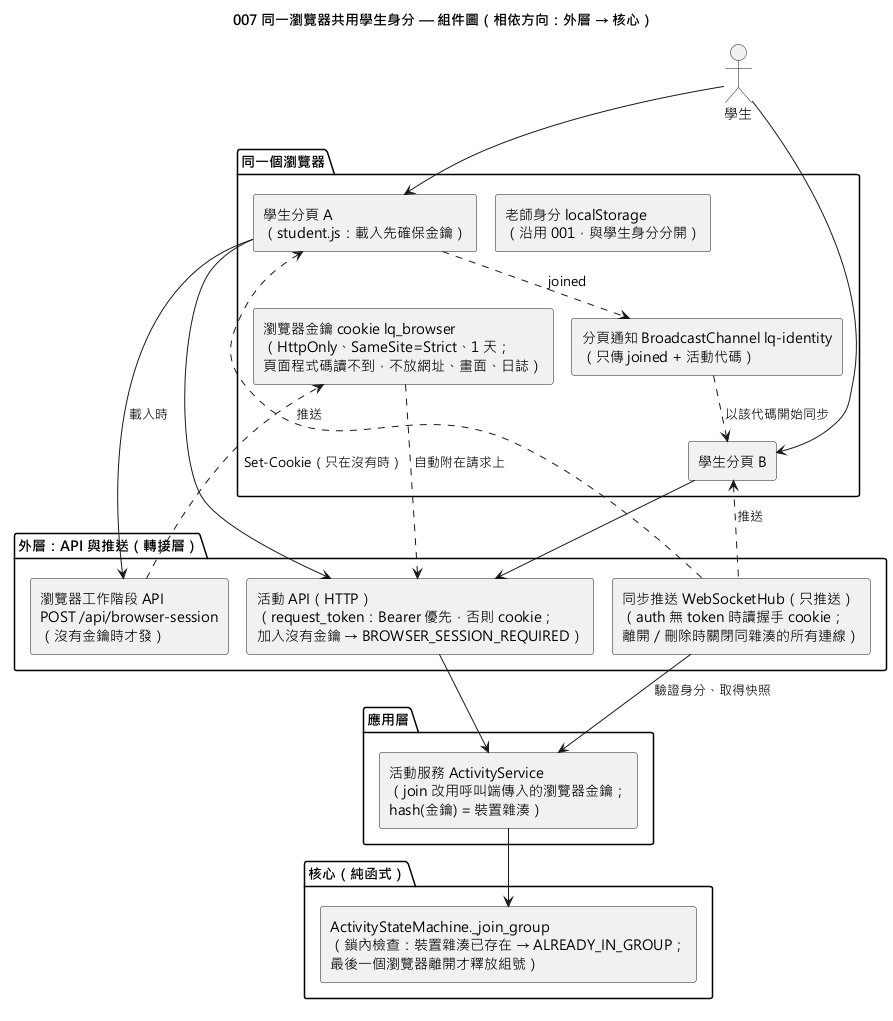
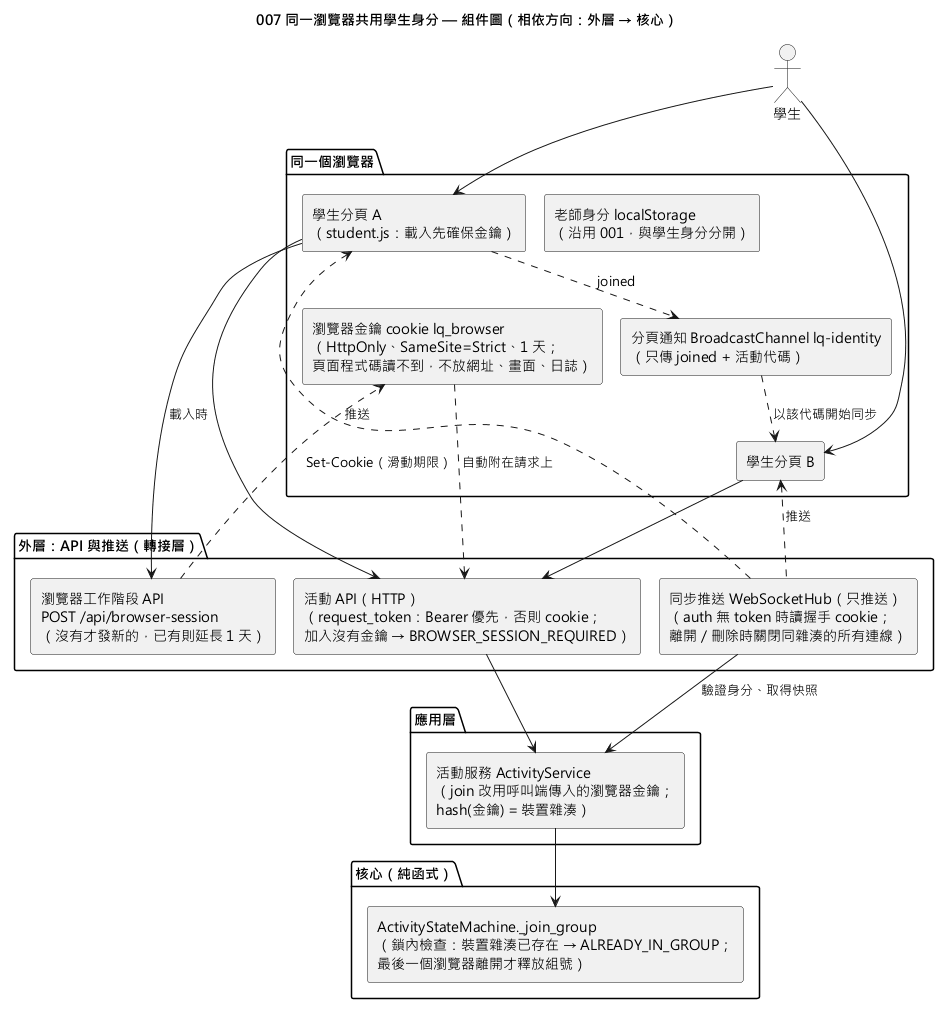
fix: 依獨立審查修正 007：cookie 滑動期限、加入拒絕不合格 Bearer 與老師 token、分頁通知判斷 (#36)
- browser-session 一律重新設定同一把金鑰的 1 天期限（P-08）
- 加入端點的 Bearer 須通過格式檢查；老師 token 回 403 TEACHER_CANNOT_JOIN（P-09）
- student.js 收到 joined 時以是否已同步成功判斷（P-10）
- 補測試：滑動期限、Bearer 格式、老師 token、WebSocket 完全無 cookie；補做 INV-1 第二次負對照
- 文件：契約 §1／§3／§6／§7、spec FR-004、research、data-model、001 契約表、圖表同步
- 驗證：ruff、format、mypy 全過；pytest 1431 passed、0 failed

diff --git a/src/lecture_quiz/adapters/static/js/student.js b/src/lecture_quiz/adapters/static/js/student.js
@@ -154,7 +154,9 @@ function followOtherTab(event) {
   if (!message || message.type !== "joined" || typeof message.code !== "string") return;
   const code = normalizeCode(message.code);
   if (code.length !== 6) return;
-  if (state.sync !== null) return; // 已經連著某個活動的分頁不受影響
+  // 已經同步成功（正在看某個活動）的分頁不受影響；還在連線、尚未收到快照的分頁
+  // 則改用通知的代碼重新同步，避免錯過通知（verification P-10）
+  if (state.synced) return;
   showError($("student-error"), null);
   history.replaceState(null, "", `?code=${encodeURIComponent(code)}`);
   startSync(code);

diff --git a/tests/contract/test_http_join.py b/tests/contract/test_http_join.py
@@ -55,6 +55,38 @@ def test_join_without_browser_key_is_rejected_without_change(client):
     assert snapshot["groups"] == []
 
 
+def test_malformed_bearer_is_not_a_browser_key(client):
+    """FR-008：Bearer 格式不符時不當成瀏覽器金鑰（審查第 3 點）。"""
+    teacher = create_joinable(client)
+    client.cookies.clear()
+    response = client.post(
+        f"/api/activities/{teacher.code}/groups/join",
+        json={"groupNumber": 2},
+        headers={"Authorization": "Bearer x"},
+    )
+    assert response.status_code == 400
+    assert response.json()["error"]["code"] == "BROWSER_SESSION_REQUIRED"
+
+
+def test_teacher_token_cannot_join(client):
+    """老師 token 不能當瀏覽器金鑰加入組別，否則會留下無法離開的裝置（審查第 3 點）。"""
+    teacher = create_joinable(client)
+    response = client.post(
+        f"/api/activities/{teacher.code}/groups/join",
+        json={"groupNumber": 2},
+        headers=teacher.headers,
+    )
+    assert response.status_code == 403
+    assert response.json()["error"] == {
+        "code": "TEACHER_CANNOT_JOIN",
+        "message": "老師身分不能加入組別，請用另一個瀏覽器開學生頁。",
+    }
+    snapshot = client.get(
+        f"/api/activities/{teacher.code}/snapshot", headers=teacher.headers
+    ).json()
+    assert snapshot["groups"] == []
+
+
 def test_code_is_case_and_space_insensitive(client):
     teacher = create_joinable(client)
     response = _join(client, f" {teacher.code.lower()} ", {"groupNumber": "1"})

diff --git a/src/lecture_quiz/adapters/web/browser_session.py b/src/lecture_quiz/adapters/web/browser_session.py
@@ -28,20 +28,22 @@ def create_router() -> APIRouter:
 
     @router.post("/browser-session", status_code=204)
     async def ensure_browser_session(request: Request) -> Response:
-        """已有合法金鑰時不動 cookie；否則發一把新的（本文一律為空）。"""
+        """已有合法金鑰時沿用並延長期限；否則發一把新的（本文一律為空）。
+
+        每次開啟學生頁都重新設定 1 天期限（滑動期限，verification P-08），避免
+        「第一次開頁滿 1 天」剛好落在上課中途而失去身分。
+        """
         response = Response(status_code=204)
-        if browser_key_from(request.cookies) is not None:
-            annotate_request_log(request, result="OK")
-            return response
+        existing = browser_key_from(request.cookies)
         response.set_cookie(
             BROWSER_COOKIE_NAME,
-            new_browser_key(),
+            existing if existing is not None else new_browser_key(),
             max_age=BROWSER_COOKIE_MAX_AGE,
             path="/",
             httponly=True,
             samesite="strict",
         )
-        annotate_request_log(request, result="ISSUED")
+        annotate_request_log(request, result="OK" if existing else "ISSUED")
         return response
 
     return router

diff --git a/tests/contract/test_http_browser_session.py b/tests/contract/test_http_browser_session.py
@@ -30,12 +30,17 @@ def test_issues_httponly_strict_cookie_without_body(client: TestClient):
     assert is_browser_key(response.cookies["lq_browser"])
 
 
-def test_existing_valid_cookie_is_kept(client: TestClient):
+def test_existing_valid_cookie_is_kept_and_refreshed(client: TestClient):
+    """已有金鑰：沿用同一把，並重新設定 1 天期限（審查第 1 點：滑動期限，
+    避免第一次開頁滿 1 天後在上課中途失效）。"""
     client.cookies.clear()
     first = client.post(URL).cookies["lq_browser"]
     again = client.post(URL)
     assert again.status_code == 204
-    assert _set_cookie_headers(again) == []
+    headers = _set_cookie_headers(again)
+    assert len(headers) == 1
+    assert headers[0].startswith(f"lq_browser={first};")
+    assert "max-age=86400" in headers[0].lower()
     assert client.cookies.get("lq_browser") == first
 
 

diff --git a/tests/contract/test_ws_sync.py b/tests/contract/test_ws_sync.py
@@ -157,7 +157,16 @@ def test_auth_without_token_uses_cookie(client, auth):
     assert snap["ownGroup"]["number"] == 3
 
 
-def test_auth_without_token_or_cookie_is_unauthorized(client):
+def test_auth_without_token_and_without_cookie_is_unauthorized(client):
+    teacher = create_joinable(client)
+    browser = TestClient(client.app)  # 完全沒有 cookie
+    with browser.websocket_connect(f"/ws/activities/{teacher.code}") as ws:
+        ws.send_json({"type": "auth"})
+        assert ws.receive_json() == {"type": "unauthorized", "reason": "INVALID_TOKEN"}
+        assert _close_code(ws) == 4401
+
+
+def test_auth_with_cookie_of_non_member_is_unauthorized(client):
     teacher = create_joinable(client)
     browser = new_browser_client(client)  # 有金鑰，但沒有加入任何組
     with browser.websocket_connect(f"/ws/activities/{teacher.code}") as ws:

diff --git a/specs/007-browser-identity-sync/verification.md b/specs/007-browser-identity-sync/verification.md
@@ -32,7 +32,8 @@
 ### P-05：負對照紀錄（2026-11-26，T017）
 
 - 核心 INV-1 的單元測試（`tests/unit/core/test_state_machine_join.py` 的 3 項 007 測試）在實作 INV-1 之前執行，結果 3 failed、16 passed；實作後全數通過。
-- 曾嘗試暫時移除 INV-1 重跑並發測試作為第二次負對照，但該做法需要還原未 commit 的檔案，被工具權限擋下，因此沒有執行。
+- 第一次嘗試第二次負對照時，做法需要還原未 commit 的檔案，被工具權限擋下而沒有執行。
+- INV-1 commit 之後（2026-11-26，T050 審查後），以 Edit 暫時刪除 `state_machine.py` 的 INV-1 兩行，執行 `pytest tests/integration/test_007_browser_identity.py::test_concurrent_joins_one_wins`：1 failed（兩個加入都成功，`len(winners) == 2`）；再以 Edit 加回，`git diff` 確認檔案與 commit 相同，該測試 1 passed。
 
 ### 未改動的措辭
 
@@ -48,3 +49,41 @@
 - 以預設設定重新轉出時，圖高被截在 4096 px，結尾的「結束活動」「重連與重啟」段落消失（檔案從 486 KB 變成 224 KB 才發現）。
 - 改以 `java -DPLANTUML_LIMIT_SIZE=8192 -jar plantuml.jar` 重新轉出，高度 4783 px，開啟確認內容完整。之後轉出長的時序圖都要加這個參數。
 - 同時檢查所有 PNG：另有 `diagrams/005-result-export-class.png` 寬度剛好 4096 px，可能也被截斷；它不是 007 改的，留給 005 負責人確認。
+
+## 獨立審查（T050，2026-11-26）
+
+由另一個 agent 以唯讀方式審查 `git diff origin/main...HEAD`（審查時 1428 passed）。結論：INV-1 正確、冪等快取不會被其他瀏覽器誤用、金鑰不外洩、既有測試改寫沒有放寬斷言。發現的問題與處理如下。
+
+### P-08：瀏覽器金鑰的 1 天期限從第一次發出起算、不延長（審查第 1 點，已確認）
+
+- **情境**：前一天 10:00 開過學生頁，今天 9:30 上課加入，10:00 cookie 過期；WebSocket 仍連著，但 HTTP 提交改為匿名被拒，重新加入又因頁面沒再呼叫 browser-session 而得到誤導的 `BROWSER_SESSION_REQUIRED`。
+- **處理**：`browser-session` 一律重新設定 cookie，已有合法金鑰時沿用同一把、延長 1 天（滑動期限）。學生頁每次載入都會呼叫，所以期限從「最後一次開頁」起算。spec FR-004、契約 §1、research R1、data-model 同步修改。
+- **測試**：`tests/contract/test_http_browser_session.py::test_existing_valid_cookie_is_kept_and_refreshed`（修改前 failed，修改後 passed）。
+
+### P-09：加入端點不檢查 Bearer 格式，老師 token 也能當金鑰（審查第 3 點，已確認）
+
+- **情境**：`Bearer x` 可以加入並取得學生身分，違反 FR-008「格式錯誤視為沒有身分」；用老師 token 加入會留下雜湊等於老師的裝置，因為 `resolve_requester` 先比對老師，該裝置永遠無法離開，組號也無法釋放。只有手動偽造請求才會發生，沒有權限提升。
+- **處理**：`http_api.join_group` 的 Bearer 必須通過 `is_browser_key`，否則改用 cookie；解析出的請求者是老師時回 `403 TEACHER_CANNOT_JOIN`。契約 §3、§6 同步。
+- **測試**：`test_http_join.py::test_malformed_bearer_is_not_a_browser_key`、`test_teacher_token_cannot_join`（修改前 failed，修改後 passed）。
+
+### P-10：還在連線、尚未收到第一份快照的分頁會忽略其他分頁的加入通知（審查第 2 點，可能，時間窗很窄）
+
+- **處理**：`student.js` 收到 `joined` 時改以 `state.synced`（是否已同步成功）判斷，尚未同步成功的分頁一律以通知的代碼重新同步。契約 §7 同步。
+- **測試**：時間窗太窄，沒有穩定的自動化重現方式；既有的瀏覽器測試 `test_join_in_one_tab_switches_other_tabs` 仍通過。
+
+### 其他審查項目的處理
+
+- 第 4 點（CSRF 只靠 SameSite=Strict，可能、低）：列入 research R4 的已知限制，不修改。
+- 第 6 點（WebSocket「完全沒有 cookie」沒有測到）：`test_ws_sync.py` 拆成 `test_auth_without_token_and_without_cookie_is_unauthorized`（無 cookie）與 `test_auth_with_cookie_of_non_member_is_unauthorized`。
+- 第 7 點（Bearer 負面測試缺漏）：見 P-09 的兩項測試。
+- 第 8 點（併發測試缺第二次負對照）：已補做，見 P-05。
+- 第 10 點（契約與 docstring 寫「依 Bearer 判斷 404／410」，實際一律 404）：契約 §3 與 `http_api.join_group` 的 docstring 改為「一律回 404」。
+- 第 11 點（契約 §7 表格多出錯誤代碼列）：移到 §6。
+- 第 12 點（001 契約端點表仍列 `deviceToken`）：第 3 列改為 007 之後的回應。`NOT_IN_GROUP` 的「這台裝置」措辭維持不改（見上方「未改動的措辭」）。
+- 審查中提到「同一瀏覽器離開本組後重用同一個 Idempotency-Key 會拿到舊快取」：前端每次操作都產生新的 UUID，走不到這條路，不修改。
+
+### 審查修正後的驗證（2026-11-26）
+
+- `ruff check .`、`ruff format --check .`、`mypy`：全部通過（84 source files）。
+- 第一次完整執行 `.venv\Scripts\python -m pytest -q`（11:41，耗時 129 秒）：1430 passed、1 failed。失敗的是 `tests/browser/test_pages.py::test_creating_new_activity_clears_previous_activity_screen`，只操作老師頁，不經過學生 cookie 路徑。
+- 該測試單獨重跑 1 passed；`tests/browser` 整個目錄連跑 3 次皆 24 passed；第二次完整執行（11:45，耗時 85 秒）1431 passed、0 failed。判斷為機器負載較高時的偶發逾時，與本次修改無關，但沒有找出確切原因，列入觀察。

diff --git a/specs/007-browser-identity-sync/contracts/http-and-sync-changes.md b/specs/007-browser-identity-sync/contracts/http-and-sync-changes.md
@@ -10,7 +10,7 @@
 | 身分 | 不需要 |
 | 請求本文 | 無 |
 | 回應 | 一律回 `204 No Content`，本文為空 |
-| Set-Cookie | 只有在請求**沒有**帶格式正確的 `lq_browser` 時才設定：`lq_browser=<金鑰>; HttpOnly; SameSite=Strict; Path=/; Max-Age=86400`。已經有金鑰時不送 `Set-Cookie`，也不延長期限 |
+| Set-Cookie | 一律設定 `lq_browser=<金鑰>; HttpOnly; SameSite=Strict; Path=/; Max-Age=86400`。請求已帶格式正確的金鑰時沿用同一把（只延長期限），沒有或格式不符時發新的（滑動期限，verification P-08） |
 | 冪等 | 是。帶著同一把 cookie 重複呼叫，結果都相同 |
 | 日誌 | 只記錄方法、路徑與狀態碼，不記錄 cookie |
 
@@ -28,10 +28,10 @@
 
 | 項目 | 001 | 007 |
 |---|---|---|
-| 需要的身分 | 無或裝置 | **必須有瀏覽器金鑰**（cookie 或 Bearer）。都沒有時回 `400 BROWSER_SESSION_REQUIRED`（不呼叫服務層，狀態不變） |
+| 需要的身分 | 無或裝置 | **必須有瀏覽器金鑰**：格式正確的 Bearer，否則 cookie。都沒有（含 Bearer 格式不符且沒有 cookie）時回 `400 BROWSER_SESSION_REQUIRED`；金鑰是該活動的老師 token 時回 `403 TEACHER_CANNOT_JOIN`（verification P-09）。兩者都不呼叫服務層，狀態不變 |
 | 成功回應 | `200 {"deviceToken", "groupNumber", "credential", "version"}` | `200 {"groupNumber", "credential", "version"}`，**移除 `deviceToken`**（FR-008） |
 | 已是成員 | `409 ALREADY_IN_GROUP`「這台裝置已經在第 n 組，請先離開本組」 | `409 ALREADY_IN_GROUP`「這個瀏覽器已是第 n 組成員，請先離開本組。」；同時加入時落敗的請求也回這個（核心 INV-1） |
-| 活動不存在 | 帶 token 時回 410，否則 404 | **只看 Bearer**：沒有 Bearer 時回 `404 ACTIVITY_NOT_FOUND`，即使請求帶著 cookie（research R4，打錯代碼不應顯示「活動已失效」） |
+| 活動不存在 | 帶 token 時回 410，否則 404 | **一律回 `404 ACTIVITY_NOT_FOUND`**，不論是否帶 Bearer 或 cookie（research R4，打錯代碼不應顯示「活動已失效」） |
 | Set-Cookie | — | 不送。金鑰只由 `browser-session` 發出 |
 
 其他端點（快照、離開本組、003 提交、004 學生結果等）的請求格式與回應都不變，差別只在身分改由 cookie 取得。
@@ -56,6 +56,8 @@
 | 代碼 | HTTP | 訊息 |
 |---|---|---|
 | `BROWSER_SESSION_REQUIRED` | 400 | 瀏覽器沒有保存身分，請允許本網站儲存資料後重新整理頁面。 |
+| `TEACHER_CANNOT_JOIN` | 403 | 老師身分不能加入組別，請用另一個瀏覽器開學生頁。 |
+| `ALREADY_IN_GROUP` | 409 | 這個瀏覽器已是第 n 組成員，請先離開本組。 |
 
 ## 7. 學生頁對回應的處理（前端，research R4、R7）
 
@@ -65,6 +67,6 @@
 | 第一次連線收到 `unauthorized INVALID_TOKEN` | 安靜地顯示加入畫面，不顯示錯誤 |
 | 第一次連線就收到 `gone`（從未同步成功） | 顯示加入畫面與「找不到這個活動代碼，請確認後再輸入。」 |
 | 同步成功過之後收到 `gone` | 顯示「活動已失效，請重新建立或加入活動」（001 行為） |
-| `ALREADY_IN_GROUP` | 409 | 這個瀏覽器已是第 n 組成員，請先離開本組。 |
+| 收到其他分頁的 `joined` 通知 | 尚未同步成功（加入畫面，或還在等第一份快照）的分頁以該代碼重新同步；已同步成功的分頁不處理（verification P-10） |
 
 所有錯誤訊息都不得包含金鑰、憑證、堆疊追蹤或檔案路徑（憲章原則 V）。

diff --git a/specs/007-browser-identity-sync/spec.md b/specs/007-browser-identity-sync/spec.md
@@ -118,7 +118,7 @@
 - **FR-001**: 學生身分 MUST 以「瀏覽器 + 活動」為單位：同一個瀏覽器的所有分頁在同一活動中 MUST 共用同一個學生身分，取代 001 的「每個分頁是一台獨立裝置」。001 規格中所有「裝置」的規則（加入、憑證、離開、刪除、組號釋放、中途加入）改以瀏覽器為單位套用。
 - **FR-002**: 不同的瀏覽器或裝置 MUST 仍是不同的學生身分，可以依 001 規則加入同一組或不同組。
 - **FR-003**: 已有某組身分的瀏覽器，從任何分頁送出的加入請求（不論組號）MUST 被拒絕，並提示「這個瀏覽器已是第 N 組成員，請先離開本組」；被拒絕的請求 MUST NOT 建立組別、發出憑證或改變任何狀態。這項判定 MUST 由後端依瀏覽器身分完成，不依賴頁面自行檢查。
-- **FR-004**: 學生身分 MUST 在同一瀏覽器的重新整理、新分頁、關閉分頁後重開，以及整個瀏覽器關閉後重開時自動恢復，直到學生離開本組、組別被刪除或活動失效為止；保存最長 1 天，到期後視為沒有身分（Clarifications 2026-11-26）。
+- **FR-004**: 學生身分 MUST 在同一瀏覽器的重新整理、新分頁、關閉分頁後重開，以及整個瀏覽器關閉後重開時自動恢復，直到學生離開本組、組別被刪除或活動失效為止；保存期限為最後一次開啟學生頁起 1 天（每次開啟學生頁都重新計算），到期後視為沒有身分（Clarifications 2026-11-26；滑動期限見 verification P-08）。
 - **FR-005**: 每個請求所屬的組別 MUST 由後端依瀏覽器身分判定（沿用 001 FR-012），MUST NOT 採信請求中自稱的組號。
 - **FR-006**: 離開本組（001 FR-034）與老師刪除組別（001 FR-035）MUST 解除整個瀏覽器在該活動的學生身分，該瀏覽器的所有分頁都 MUST 回到加入畫面。001 FR-034 的「離開的是該組最後一台裝置」改為「最後一個瀏覽器」。
 - **FR-007**: 同一瀏覽器的兩個分頁同時送出加入請求時，系統 MUST 只讓其中一個成功；其餘 MUST 依 FR-003 拒絕。

diff --git a/specs/007-browser-identity-sync/research.md b/specs/007-browser-identity-sync/research.md
@@ -15,7 +15,7 @@
   - `HttpOnly`
   - `SameSite=Strict`
   - `Path=/`
-  - `Max-Age=86400`（1 天，spec FR-004）
+  - `Max-Age=86400`（1 天，spec FR-004）。每次 `browser-session` 都重新設定同一把金鑰的期限（滑動期限，verification P-08）
   - 不設 `Secure`：系統只在本機以 HTTP 執行，設了瀏覽器就不會保存。
   - 不設 `Domain`：只對發出 cookie 的主機有效。
 - **Rationale**：
@@ -72,6 +72,8 @@
   - 因此**加入端點**判斷 404／410 時只看 Bearer，打錯代碼仍回 404「找不到這個活動代碼」。
   - 其他端點與 WebSocket 維持原規則：帶 cookie 而活動不存在時回 410／`gone`。
   - 但網址帶錯誤的 `?code=`（例如貼錯連結）時，學生頁也會收到 `gone`。為了不把「打錯代碼」顯示成「活動已失效」，學生頁依「這個分頁是否曾經同步成功」區分：沒有同步成功過 → 顯示加入畫面與「找不到這個活動代碼，請確認後再輸入。」；同步成功過 → 顯示「活動已失效」（spec Edge Case、FR-011）。判斷只在前端畫面，後端回應不變。
+- **加入端點的 Bearer**：必須通過 `is_browser_key` 才當成金鑰；金鑰是老師 token 時拒絕（verification P-09）。
+- **CSRF**：學生的寫入操作（加入、提交、離開）靠 `SameSite=Strict` 擋其他網站帶 cookie。同一台電腦上 `127.0.0.1` 其他連接埠的網頁屬於 same-site，仍會帶上 cookie；系統只在本機執行，列為已知的低風險限制，不另外做 CSRF token。
 - **Alternatives considered**：cookie 優先於 Bearer。老師與學生在同一瀏覽器時，老師操作會被當成學生操作，違反 US3。
 
 ## R5：WebSocket 驗證

diff --git a/specs/001-activity-session/contracts/http-api.md b/specs/001-activity-session/contracts/http-api.md
@@ -22,7 +22,7 @@
 |---|---|---|---|---|---|
 | 1 | `POST /activities` | 無，或同瀏覽器上一個活動的老師 token（C7） | `{"maxGroups": int}` | `201 {"code", "teacherToken", "maxGroups", "version"}` | FR-001～003、FR-036、FR-037 |
 | 2 | `GET /activities/{code}/snapshot` | 老師或裝置 | — | `200 ActivitySnapshot`（依角色裁切） | FR-028 |
-| 3 | `POST /activities/{code}/groups/join`（準備中回 `409 JOIN_NOT_OPEN`；既有組號一律要憑證；最後一台裝置離開且從未提交的組號已釋放，視為新組號） | 無或裝置 | `{"groupNumber": int \| str, "credential": str \| null}` | `200 {"deviceToken", "groupNumber", "credential", "version"}` | FR-006～012 |
+| 3 | `POST /activities/{code}/groups/join`（準備中回 `409 JOIN_NOT_OPEN`；既有組號一律要憑證；最後一台裝置離開且從未提交的組號已釋放，視為新組號） | 瀏覽器金鑰（cookie；007 修訂） | `{"groupNumber": int \| str, "credential": str \| null}` | `200 {"groupNumber", "credential", "version"}`（007 起不含 `deviceToken`，見下方「不記錄」的修訂註記） | FR-006～012 |
 | 4 | `POST /activities/{code}/groups/leave` | 裝置 | `{}` | `200 {"version"}` | FR-034 |
 | 5 | `DELETE /activities/{code}/groups/{number}`（搶答中回 `409 GROUP_DELETE_DURING_ROUND`） | 老師 | — | `200 {"version"}` | FR-035 |
 | 6 | `POST /activities/{code}/rounds` | 老師 | `{"questionNumbers": [int], "fairMode": bool, "countdownSeconds": int \| null}` | `201 {"roundNumber", "deadline" \| null, "version"}` | FR-013～018 |

diff --git a/specs/007-browser-identity-sync/data-model.md b/specs/007-browser-identity-sync/data-model.md
@@ -16,9 +16,9 @@
 | cookie 名稱 | `lq_browser` |
 | 值 | `secrets.token_urlsafe(32)`，43 個 URL 安全字元（`[A-Za-z0-9_-]`） |
 | 屬性 | `HttpOnly`、`SameSite=Strict`、`Path=/`、`Max-Age=86400`；不設 `Secure`、`Domain`（research R1、R9） |
-| 產生者 | `POST /api/browser-session`；只有請求沒有帶格式正確的金鑰時才產生 |
+| 產生者 | `POST /api/browser-session`；請求沒有帶格式正確的金鑰時產生新的，已有時沿用並延長期限 |
 | 驗證規則 | 格式不符（長度、字元集）一律視為沒有金鑰，不拋錯；格式正確但在活動中查不到，視為匿名（FR-008） |
-| 生命週期 | 瀏覽器保存 1 天；後端不保存金鑰本身，只保存它在各活動的雜湊 |
+| 生命週期 | 瀏覽器保存到最後一次開啟學生頁起 1 天（滑動期限）；後端不保存金鑰本身，只保存它在各活動的雜湊。老師 token 不能當金鑰加入（`TEACHER_CANNOT_JOIN`） |
 
 - 後端**不**保存「已發出的金鑰清單」。金鑰只有在加入組別後，才會以 `hash_token(金鑰)` 的形式成為某個活動的 `DeviceIdentity` 鍵。
 - 一把金鑰可以同時是多個活動的裝置（每個活動最多一筆）。
